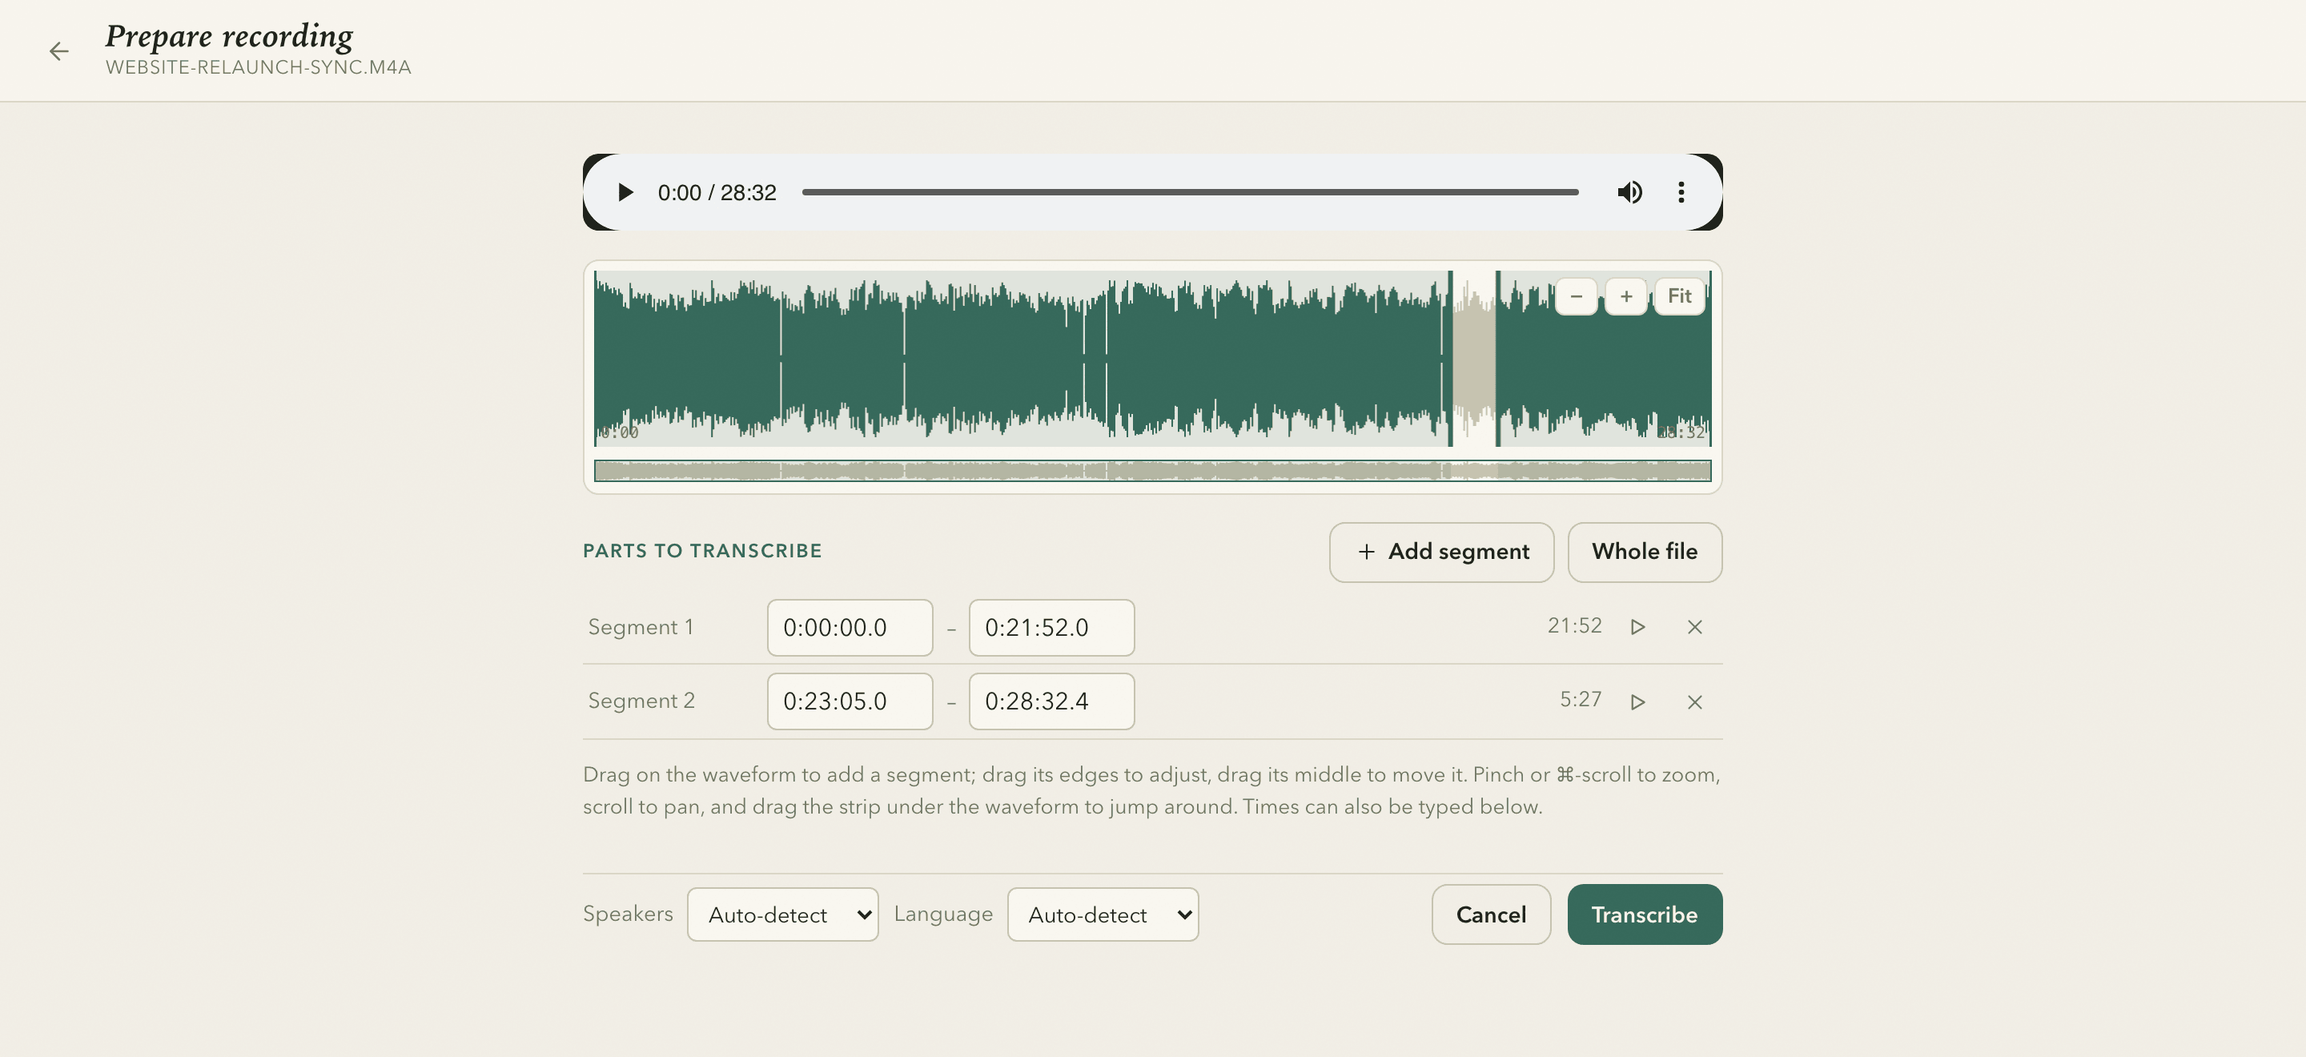
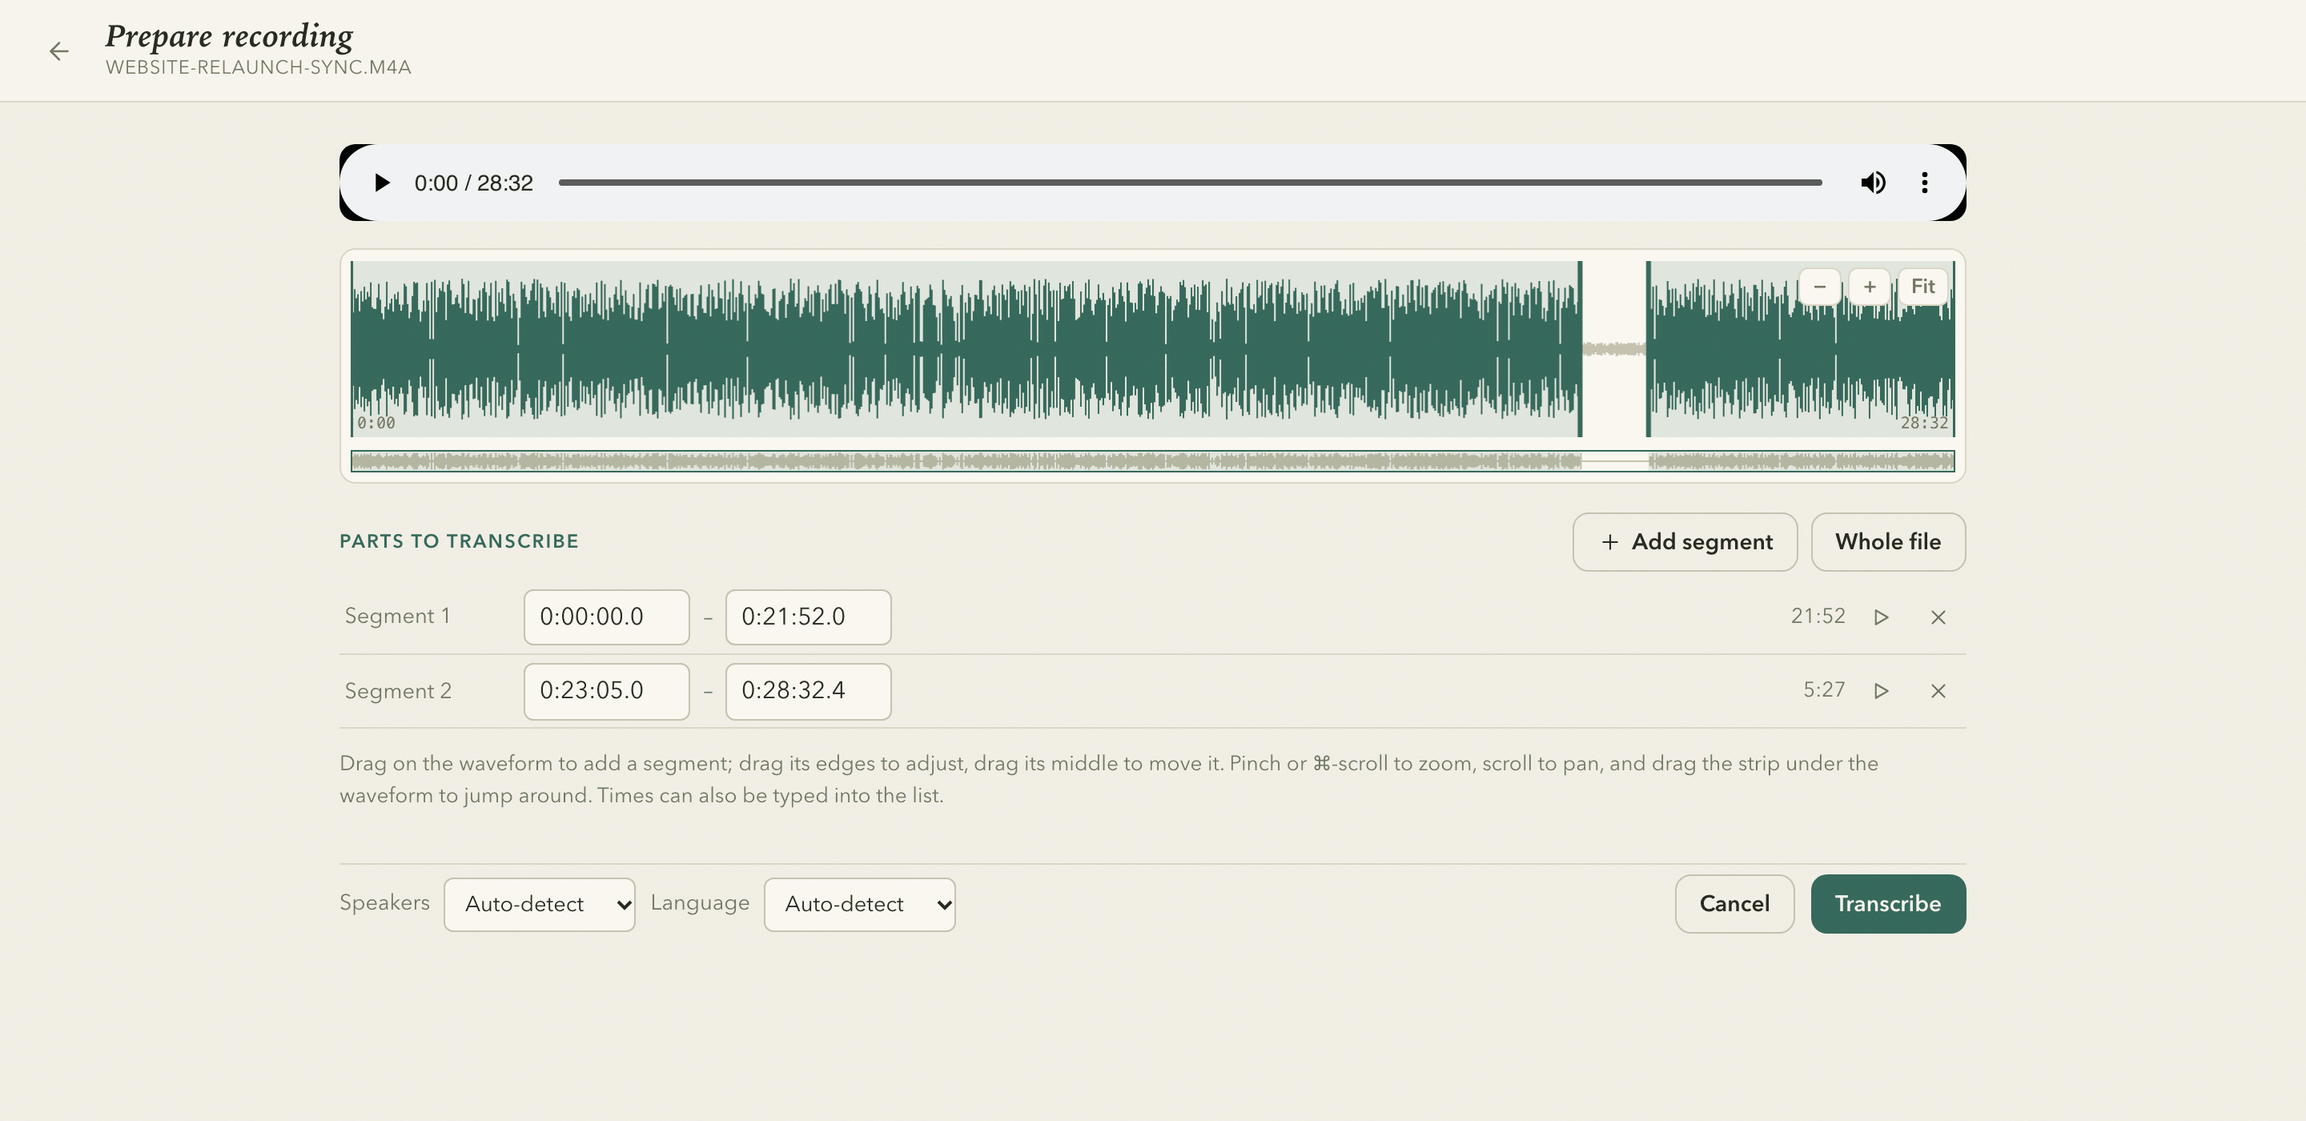
docs: README and screenshots for v0.1.10; stacked prepare for audio
README: the notes (short + detailed summary, takeaways and action items
with detail) and generated titles in the intro and pipeline, the model
list in Settings, the prepare layout, and how the screenshots are made.

Screenshots (meeting light/dark, settings light/dark, prepare) are now
rendered by the smoke bundle — `#meeting`, `#docs`, `#docs-prepare`
with content in frontend/smoke/docs.ts — so they can be regenerated
instead of hand-staged.

prepare: the side-by-side layout applies only once the video shows a
picture (`has-picture`). Audio files and formats that fall back to an
audio preview (mkv, avi) keep the stacked layout with a full-width player
instead of a thin bar beside the segment list.

diff --git a/frontend/smoke/docs.ts b/frontend/smoke/docs.ts
@@ -1,0 +1,100 @@
+// Content for the README screenshots (`#meeting`, `#docs-prepare`): a
+// believable finished meeting in the current notes shape, and a 28-minute
+// audio file for the prepare screen. Rendered by the real bundle against
+// the smoke stub, so the screenshots always show the current UI.
+
+const ago = (minutes: number) => new Date(Date.now() - minutes * 60_000).toISOString();
+
+export const DOCS_MEETING_ID = "docs-relaunch";
+
+export function docsMeetings() {
+  return [
+    // Still processing: no notes yet, so it still carries its file name.
+    { id: "docs-nordwind", filename: "customer-interview-nordwind.mp4", title: "customer-interview-nordwind.mp4", status: "transcribing", created_at: ago(4) },
+    { id: DOCS_MEETING_ID, filename: "2026-07-10 13-15-02.mkv", title: "Website relaunch go-live check", status: "done", created_at: ago(120) },
+    { id: "docs-roadmap", filename: "2026-07-07 10-00-41.mkv", title: "Q3 roadmap planning", status: "done", created_at: ago(3 * 1440) },
+    { id: "docs-support", filename: "support-handover.m4a", title: "Support handover to the June team", status: "done", created_at: ago(14 * 1440) },
+  ];
+}
+
+const item = (short: string, detail: string) => ({ short, detail });
+
+export function docsMeeting() {
+  const segments = [
+    { start: 12, end: 19, speaker: "spk_0", text: "Alright, quick status round on the relaunch. Ben, where did we land with the translation hand-off?" },
+    { start: 28, end: 41, speaker: "spk_1", text: "English and Spanish are done and already in the CMS. German is at about eighty percent — the agency gets the last batch on Wednesday, so we're still inside the buffer." },
+    { start: 52, end: 66, speaker: "spk_2", text: "One thing from my side: legal still wants to review the imprint and the cookie banner copy. That usually takes them two days, so please don't treat the German pages as final before Friday." },
+    { start: 75, end: 88, speaker: "spk_0", text: "Good catch. Then August 14 still holds, but I want a go/no-go on the 11th. Ben, the pricing page — is that the last design task?" },
+    { start: 92, end: 104, speaker: "spk_1", text: "Yes. Mobile spacing and the currency toggle, I'll have both fixed by tomorrow. After the accessibility audit is merged we freeze the component library." },
+  ];
+  return {
+    id: DOCS_MEETING_ID,
+    filename: "2026-07-10 13-15-02.mkv",
+    title: "Website relaunch go-live check",
+    status: "done",
+    created_at: ago(120),
+    summary:
+      "The team confirmed August 14 as the launch date for the relaunched website, with a go/no-go call on August 11. German translations and a legal review of the imprint and cookie banner are the open threads, so the German pages are final on Friday at the earliest.",
+    summary_long:
+      "Anna opened with the translation hand-off. Ben reported English and Spanish complete in the CMS and German at about 80 %, with the agency receiving the last batch on Wednesday — still inside the planned buffer.\n\nSpeaker 3 flagged that legal has yet to review the imprint and the cookie banner copy, which usually takes two days. The team agreed not to treat the German pages as final before Friday, and Anna kept August 14 as the launch date on the condition of a go/no-go call on August 11.\n\nOn design, the pricing page is the last open task: Ben fixes mobile spacing and the currency toggle by tomorrow, and the component library freezes once the accessibility audit is merged.",
+    takeaways: [
+      item("Launch holds at August 14.", "Confirmed by a go/no-go call on August 11, after Monday's load test."),
+      item("German pages can't be final before Friday.", "Legal still reviews the imprint and cookie banner copy, which takes about two days."),
+      item("The pricing page is the last design task.", "The component library freezes once the accessibility audit is merged."),
+    ],
+    action_items: [
+      item("Ben: fix mobile spacing and the currency toggle on the pricing page", "Due tomorrow; blocks the component-library freeze."),
+      item("Ben: run the load test against staging on Monday", "Beta traffic profile plus video assets; feeds the go/no-go call."),
+      item("Anna: add the legal review to the launch checklist and send the go/no-go invite", "Invite for August 11."),
+    ],
+    timings: { extract: 4.1, transcribe: 124.2, diarize: 6.8, identify: 2.4, summarize: 25.3, total: 162.8 },
+    segments,
+    speakers: { spk_0: "Anna Weber", spk_1: "Ben Ortiz", spk_2: "Speaker 3" },
+    recognized: ["spk_0", "spk_1"],
+    confirmed: ["spk_0"],
+    has_audio: false,
+    versions: [],
+    asr_model: "parakeet-tdt-0.6b-v3",
+  };
+}
+
+// The prepare screen's recording: 28:32 of speech-like peaks with a break.
+export const DOCS_PREP_DURATION = 1712.4;
+
+export function docsPeaks(n = 1200) {
+  let seed = 7;
+  const rand = () => ((seed = (seed * 16807) % 2147483647) / 2147483647);
+  return Array.from({ length: n }, (_, i) => {
+    const t = (i / n) * DOCS_PREP_DURATION;
+    if (t > 1312 && t < 1385) return 0.04 + rand() * 0.05; // coffee break
+    const pause = rand() < 0.05 ? 0.15 : 1;
+    return Math.min(1, (0.35 + rand() * 0.55) * pause);
+  });
+}
+
+// A silent WAV of exactly that duration (8 kHz, 8-bit: ~14 MB), so the
+// player shows the real length instead of an error.
+let silentUrl: string | null = null;
+export function silentWavUrl(): string {
+  if (silentUrl) return silentUrl;
+  const rate = 8000;
+  const n = Math.round(DOCS_PREP_DURATION * rate);
+  const buf = new Uint8Array(44 + n);
+  const view = new DataView(buf.buffer);
+  const str = (o: number, s: string) => [...s].forEach((c, i) => (buf[o + i] = c.charCodeAt(0)));
+  str(0, "RIFF");
+  view.setUint32(4, 36 + n, true);
+  str(8, "WAVEfmt ");
+  view.setUint32(16, 16, true);
+  view.setUint16(20, 1, true);
+  view.setUint16(22, 1, true);
+  view.setUint32(24, rate, true);
+  view.setUint32(28, rate, true);
+  view.setUint16(32, 1, true);
+  view.setUint16(34, 8, true);
+  str(36, "data");
+  view.setUint32(40, n, true);
+  buf.fill(128, 44);
+  silentUrl = URL.createObjectURL(new Blob([buf], { type: "audio/wav" }));
+  return silentUrl;
+}

diff --git a/frontend/smoke/check.ts b/frontend/smoke/check.ts
@@ -4,7 +4,8 @@
 import { closePrepare, openPrepare } from "../ts/prepare";
 import { onBenchProgress, openBench } from "../ts/bench";
 import { openSettings, openSpeakers } from "../ts/settings";
-import { renderResult } from "../ts/meeting";
+import { renderResult, selectMeeting } from "../ts/meeting";
+import { DOCS_MEETING_ID } from "./docs";
 import { state } from "../ts/state";
 import { LIMITS } from "./fixtures";
 
@@ -38,7 +39,10 @@ export async function runSmokeChecks(): Promise<void> {
     problems.push("fatal screen: " + document.getElementById("fatal-msg")!.textContent!.trim());
   }
   if (hidden("app")) problems.push("main screen not visible");
-  if (!document.getElementById("meeting-list")!.textContent!.includes("No meetings yet")) {
+  if (
+    location.hash !== "#meeting" &&
+    !document.getElementById("meeting-list")!.textContent!.includes("No meetings yet")
+  ) {
     problems.push("meeting-list empty state missing");
   }
   if (
@@ -61,6 +65,31 @@ export async function runSmokeChecks(): Promise<void> {
     problems.push("openPrepare threw: " + e.message);
   }
 
+  // README screenshots: `#meeting` (a finished meeting) and `#docs-prepare`
+  // (a 28-minute recording with a break cut out).
+  if (location.hash === "#meeting") {
+    closePrepare();
+    selectMeeting(DOCS_MEETING_ID);
+    await new Promise((resolve) => setTimeout(resolve, 50));
+    finish();
+    return;
+  }
+  if (location.hash === "#docs-prepare") {
+    closePrepare();
+    await openPrepare("/Users/you/Recordings/website-relaunch-sync.m4a");
+    const setTime = (input: HTMLInputElement | undefined, value: string) => {
+      if (!input) return problems.push("prep time input missing");
+      input.value = value;
+      input.dispatchEvent(new Event("blur"));
+    };
+    setTime(document.querySelectorAll<HTMLInputElement>("#prep-range-list .time-input")[1], "0:21:52.0");
+    document.getElementById("prep-add-range")!.click();
+    setTime(document.querySelectorAll<HTMLInputElement>("#prep-range-list .time-input")[2], "0:23:05.0");
+    setTime(document.querySelectorAll<HTMLInputElement>("#prep-range-list .time-input")[3], "0:28:32.4");
+    await new Promise((resolve) => setTimeout(resolve, 300));
+    finish();
+    return;
+  }
   // `#prepare`: leave the prepare screen open for screenshots.
   if (location.hash === "#prepare") {
     finish();

diff --git a/frontend/style.css b/frontend/style.css
@@ -1364,9 +1364,9 @@ mark.find-hit.current {
 
 /* ------------------------------------------------------ prepare screen */
 .prep-body {
-  max-width: 1320px;
   gap: 1.1rem;
 }
+.prep-body.has-picture { max-width: 1320px; }
 .prep-player {
   display: flex;
   flex-direction: column;
@@ -1450,10 +1450,12 @@ mark.find-hit.current {
 .prep-actions .speakers-field { margin: 0; }
 .prep-spacer { flex: 1; }
 
-/* Desktop: video beside the segment list, waveform full width under both
-   (the wider it is, the finer the selection), actions along the bottom. */
+/* Desktop, for recordings with a picture: video beside the segment list,
+   waveform full width under both (the wider it is, the finer the
+   selection), actions along the bottom. `has-picture` is set by prepare.ts
+   once the video shows a frame; audio stays stacked. */
 @media (min-width: 980px) {
-  .prep-body {
+  .prep-body.has-picture {
     display: grid;
     grid-template-columns: minmax(0, 1fr) minmax(320px, 400px);
     grid-template-areas:
@@ -1463,15 +1465,15 @@ mark.find-hit.current {
     align-items: start;
     column-gap: 1.6rem;
   }
-  .prep-player { grid-area: player; }
-  .prep-body .wave-wrap { grid-area: wave; }
-  .prep-ranges { grid-area: ranges; }
-  .prep-actions { grid-area: actions; }
-  .prep-player video { max-height: 440px; }
+  .has-picture .prep-player { grid-area: player; }
+  .has-picture .wave-wrap { grid-area: wave; }
+  .has-picture .prep-ranges { grid-area: ranges; }
+  .has-picture .prep-actions { grid-area: actions; }
+  .has-picture .prep-player video { max-height: 440px; }
   /* heading on its own line, both buttons on the next */
-  .prep-ranges .note-head { flex-wrap: wrap; }
-  .prep-ranges .note-head h3 { flex-basis: 100%; }
-  .prep-ranges .range-label { min-width: 0; white-space: nowrap; }
+  .has-picture .prep-ranges .note-head { flex-wrap: wrap; }
+  .has-picture .prep-ranges .note-head h3 { flex-basis: 100%; }
+  .has-picture .prep-ranges .range-label { min-width: 0; white-space: nowrap; }
 }
 
 .wave-zoom {

diff --git a/frontend/smoke/tauri-api.ts b/frontend/smoke/tauri-api.ts
@@ -6,13 +6,17 @@
 // null, so a new command at boot shows up as a smoke failure rather than a
 // crash in the real app.
 import { config, models, speakers } from "./fixtures";
+import { docsMeeting, docsMeetings, docsPeaks, DOCS_PREP_DURATION, silentWavUrl } from "./docs";
+
+const hash = () => location.hash;
 
 export const calls: { cmd: string; args?: Record<string, unknown> }[] = [];
 
 export async function invoke(cmd: string, args?: Record<string, unknown>): Promise<any> {
   calls.push({ cmd, args });
   if (cmd === "get_setup") return { ready: true, items: [] };
-  if (cmd === "list_meetings") return [];
+  if (cmd === "list_meetings") return hash() === "#meeting" ? docsMeetings() : [];
+  if (cmd === "get_meeting") return docsMeeting();
   if (cmd === "get_speakers") return speakers();
   if (cmd === "get_config" || cmd === "put_config") return config();
   if (cmd === "get_models") return models();
@@ -28,12 +32,14 @@ export async function invoke(cmd: string, args?: Record<string, unknown>): Promi
     };
   }
   if (cmd === "probe_media") {
+    if (hash() === "#docs-prepare") return { duration: DOCS_PREP_DURATION, peaks: docsPeaks() };
     return { duration: 3, peaks: Array.from({ length: 64 }, (_, i) => Math.abs(Math.sin(i))) };
   }
   return null;
 }
 
 export function convertFileSrc(path: string): string {
+  if (hash() === "#docs-prepare") return silentWavUrl();
   return "asset://localhost/" + path;
 }
 

diff --git a/frontend/ts/prepare.ts b/frontend/ts/prepare.ts
@@ -50,6 +50,13 @@ async function syncPrepLanguage() {
   }
 }
 
+/// Side-by-side layout (video beside the segment list) only once there is a
+/// picture to show; audio files, and formats that fall back to an audio
+/// preview (mkv, avi, …), keep the stacked layout with a full-width player.
+function setHasPicture(on: boolean) {
+  document.querySelector(".prep-body")!.classList.toggle("has-picture", on);
+}
+
 export async function openPrepare(path) {
   releasePrepMedia();
   prep = {
@@ -72,6 +79,7 @@ export async function openPrepare(path) {
   $("prep-file").textContent = prep.filename;
   $("prep-nopreview").classList.add("hidden");
   $("prep-video").classList.remove("audio-only", "hidden");
+  setHasPicture(false);
   $("prep-wave-status").textContent = "Analyzing audio…";
   $("prep-wave-status").classList.remove("hidden");
   $("prep-range-list").innerHTML = "";
@@ -90,6 +98,7 @@ export async function openPrepare(path) {
     video.onloadedmetadata = () => {
       // Audio-only files: collapse the black video box to bare controls.
       if (!video.videoWidth) video.classList.add("audio-only");
+      setHasPicture(!!video.videoWidth);
     };
     video.src = convertFileSrc(path);
   } catch {

diff --git a/README.md b/README.md
@@ -4,9 +4,9 @@
 [![License: GPL v3](https://img.shields.io/badge/License-GPLv3-blue.svg)](LICENSE)
 
 **Local, private meeting transcription & summaries.** Drag and drop a recording
-(e.g. an OBS capture) and get a **per-speaker transcript**, a **summary**, and
-**action items** — everything runs on your machine. No cloud, no accounts, **no
-API keys**.
+(e.g. an OBS capture) and get a **per-speaker transcript**, **notes** (a short
+and a detailed summary, key takeaways, action items) and a **meeting title** —
+everything runs on your machine. No cloud, no accounts, **no API keys**.
 
 Speaker identification is built in: name a speaker once and that name
 **auto-applies to the same voice in future recordings**, backed by a local
@@ -14,7 +14,7 @@ voiceprint library that learns from every confirmed match.
 
 <picture>
   <source media="(prefers-color-scheme: dark)" srcset="docs/screenshots/meeting-dark.png">
-  <img alt="LazyMeet showing a finished meeting: summary, key takeaways, action items, and a per-speaker transcript with recognized-speaker badges" src="docs/screenshots/meeting-light.png">
+  <img alt="LazyMeet showing a finished meeting with a generated title: summary with an In detail section, key takeaways and action items each with a detail line, the per-stage timings, and a per-speaker transcript with recognized-speaker badges" src="docs/screenshots/meeting-light.png">
 </picture>
 
 ## How it works
@@ -26,7 +26,7 @@ Tauri desktop app — one binary, everything in Rust
      3. NVIDIA Parakeet (ONNX)  → transcript with timestamps
      4. Nemotron 3 Diarization  → who-spoke-when (onnxruntime)
      5. speaker identification  → match/name voices via a saved speaker library
-     6. llama.cpp (in-process)  → summary, takeaways, action items
+     6. llama.cpp (in-process)  → title, summary, takeaways, action items
 ```
 
 sherpa-onnx and llama.cpp are linked statically into the app; ffmpeg ships as
@@ -44,14 +44,14 @@ fully offline:
 | Summarization | Qwen 3.5 (0.8B–9B selectable, GGUF) via llama.cpp | Hugging Face (ungated) |
 | ffmpeg | static binary | bundled with the app |
 
-Models are switched in Settings — each option lists its trade-offs and
-downloads on demand; models you no longer use can be removed there to free
+Models are switched in Settings — a list of the options with the pros and
+cons of each; a new pick downloads on demand, and models you no longer use can be removed there to free
 disk space. Cohere Transcribe is the most accurate option but can't detect
 the spoken language, so it needs one set (in Settings or per recording):
 
 <picture>
   <source media="(prefers-color-scheme: dark)" srcset="docs/screenshots/settings-dark.png">
-  <img alt="The Settings screen comparing transcription models side by side, with pros and cons for each" src="docs/screenshots/settings.png">
+  <img alt="The Settings screen listing the transcription models, one row each with its pros and cons" src="docs/screenshots/settings.png">
 </picture>
 
 ## Install (end users)
@@ -82,8 +82,10 @@ see its waveform, and choose which parts get transcribed — drag directly on
 the waveform to skip a break or transcribe only the segments that matter. You
 can also fix the number of speakers and hint the spoken language. The whole
 file is preselected, so the fast path stays a single click on **Transcribe**.
+On a wide window, recordings with video show the picture beside the segment
+list; audio files keep a full-width player above the waveform.
 
-![The prepare screen with an audio preview, a zoomable waveform, and two selected time ranges](docs/screenshots/prepare.png)
+![The prepare screen for an audio file: player, a zoomable waveform with a break cut out, and two selected time ranges](docs/screenshots/prepare.png)
 
 ## Speaker naming across files
 
@@ -232,8 +234,13 @@ the same major.minor as the `tauri` crate — tauri-cli refuses to build when
 they differ. Checks:
 `npm run typecheck` (tsc, no emit), `npm run build` (typecheck + bundle), and
 `./scripts/smoke_frontend.sh`, which builds the bundle in smoke mode with the
-Tauri API stubbed out and boots it headlessly to assert the first-run state
-and the prepare screen.
+Tauri API stubbed out and boots it headlessly to assert the first-run state,
+the prepare screen, settings and the meeting notes.
+
+The README screenshots come from the same smoke bundle (`npm run
+build:smoke`, serve `frontend/dist-smoke/`), opened at `#meeting`, `#docs`
+(Settings) and `#docs-prepare` at 1440 px wide, 2× scale; the content lives in
+`frontend/smoke/docs.ts`.
 
 ### Cross-platform builds
 
